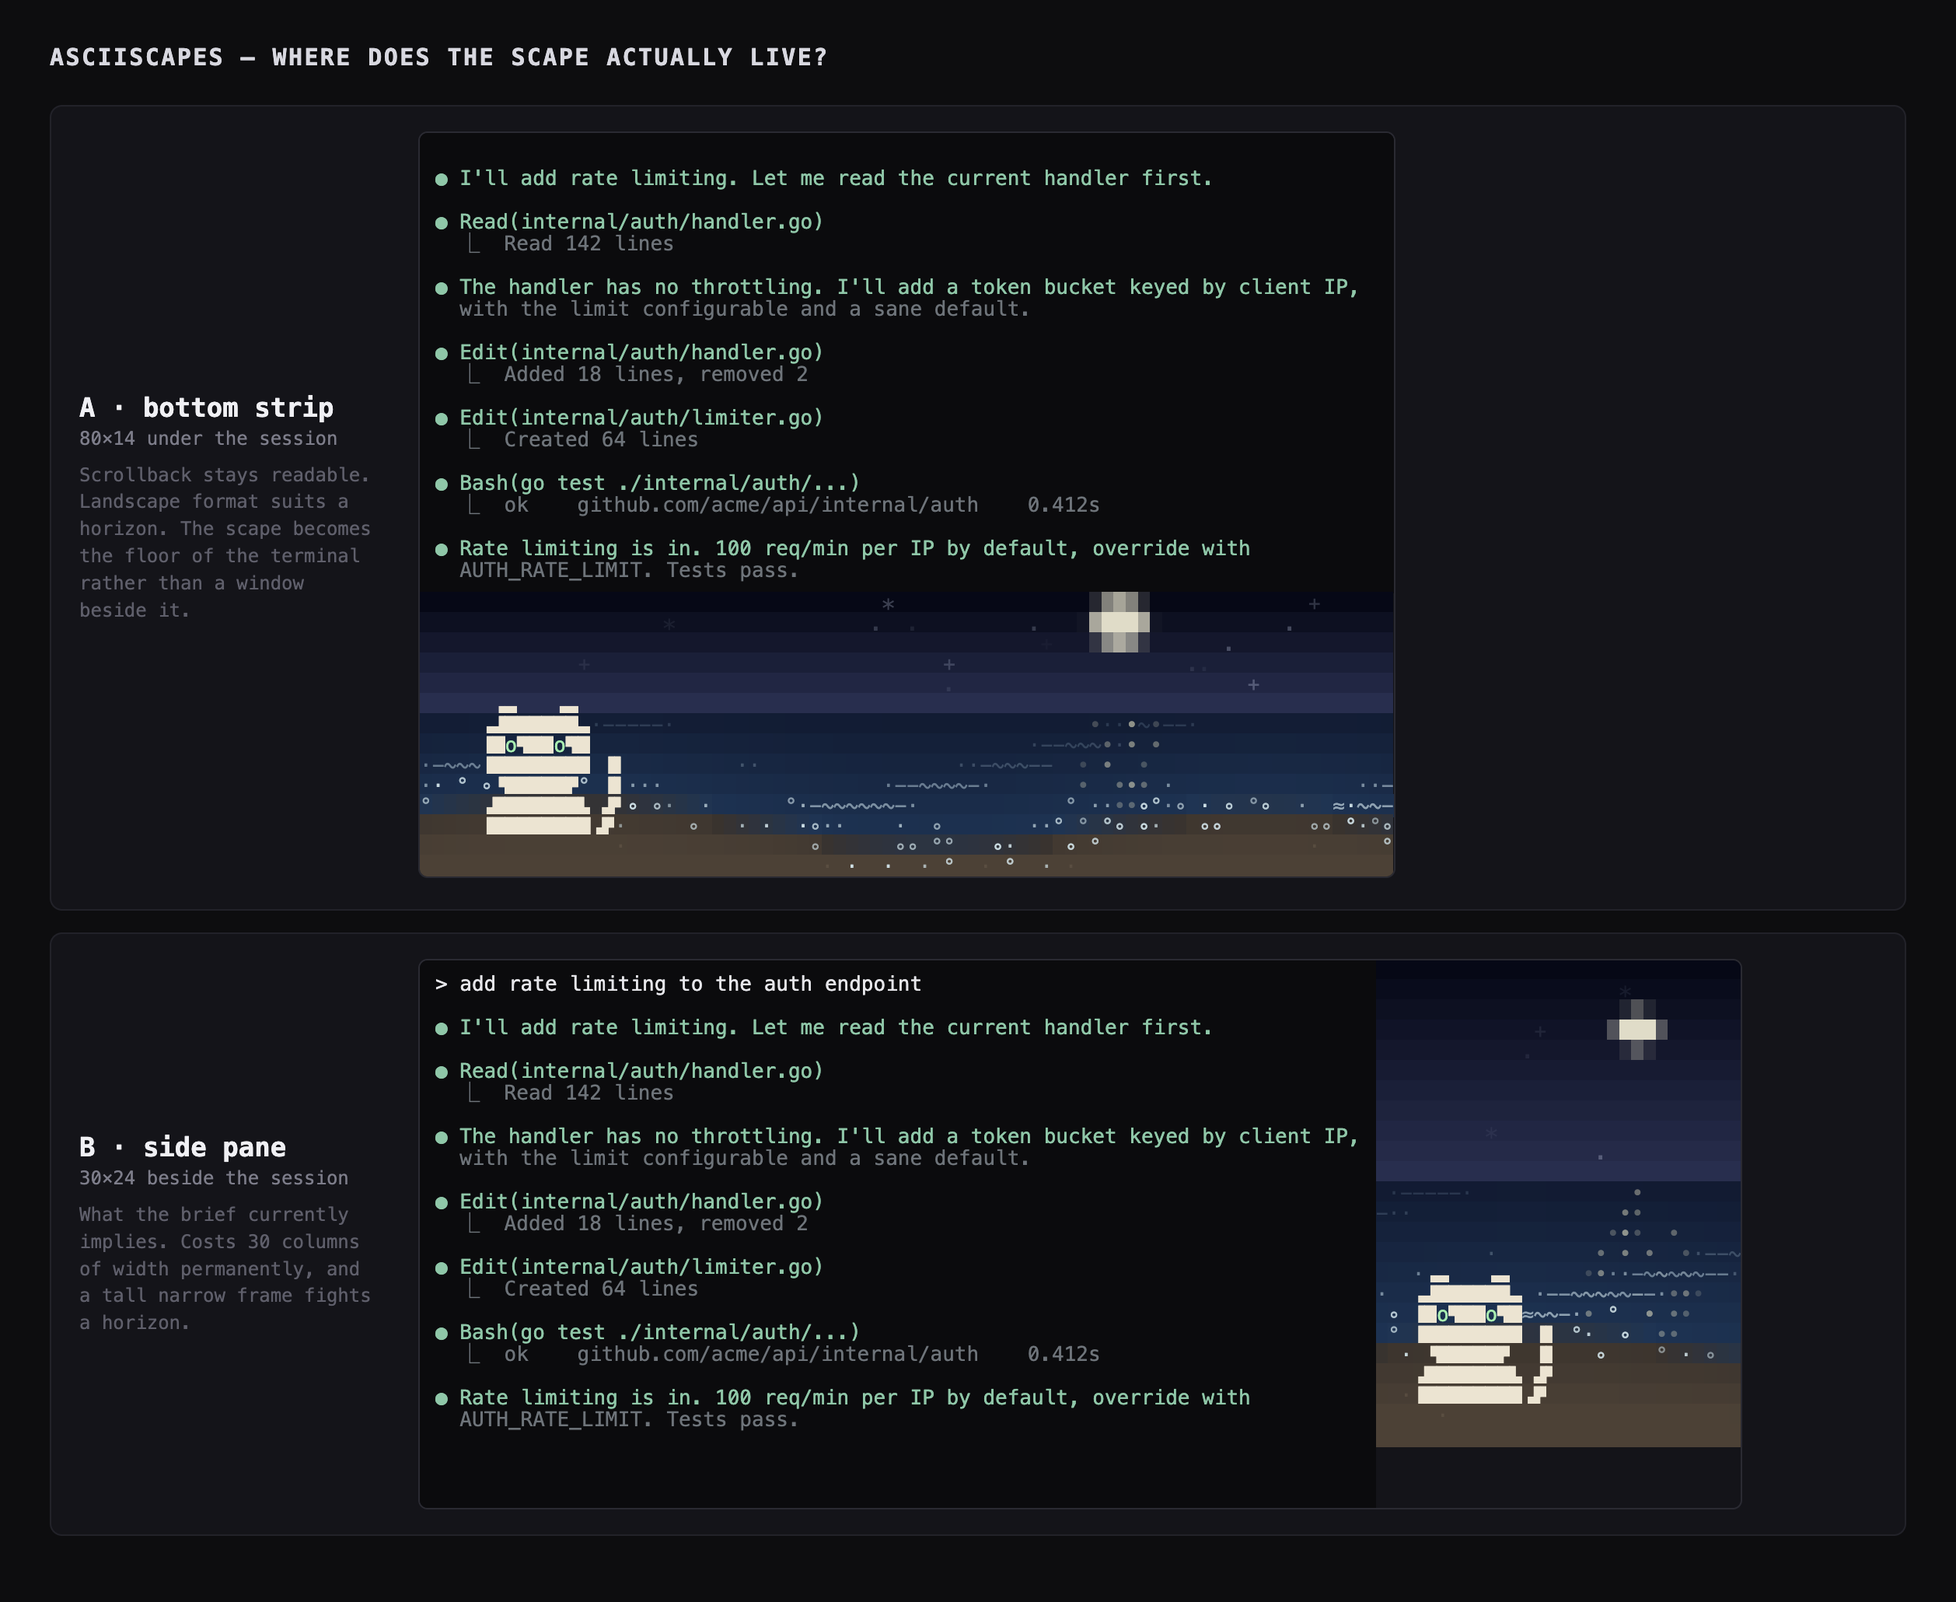
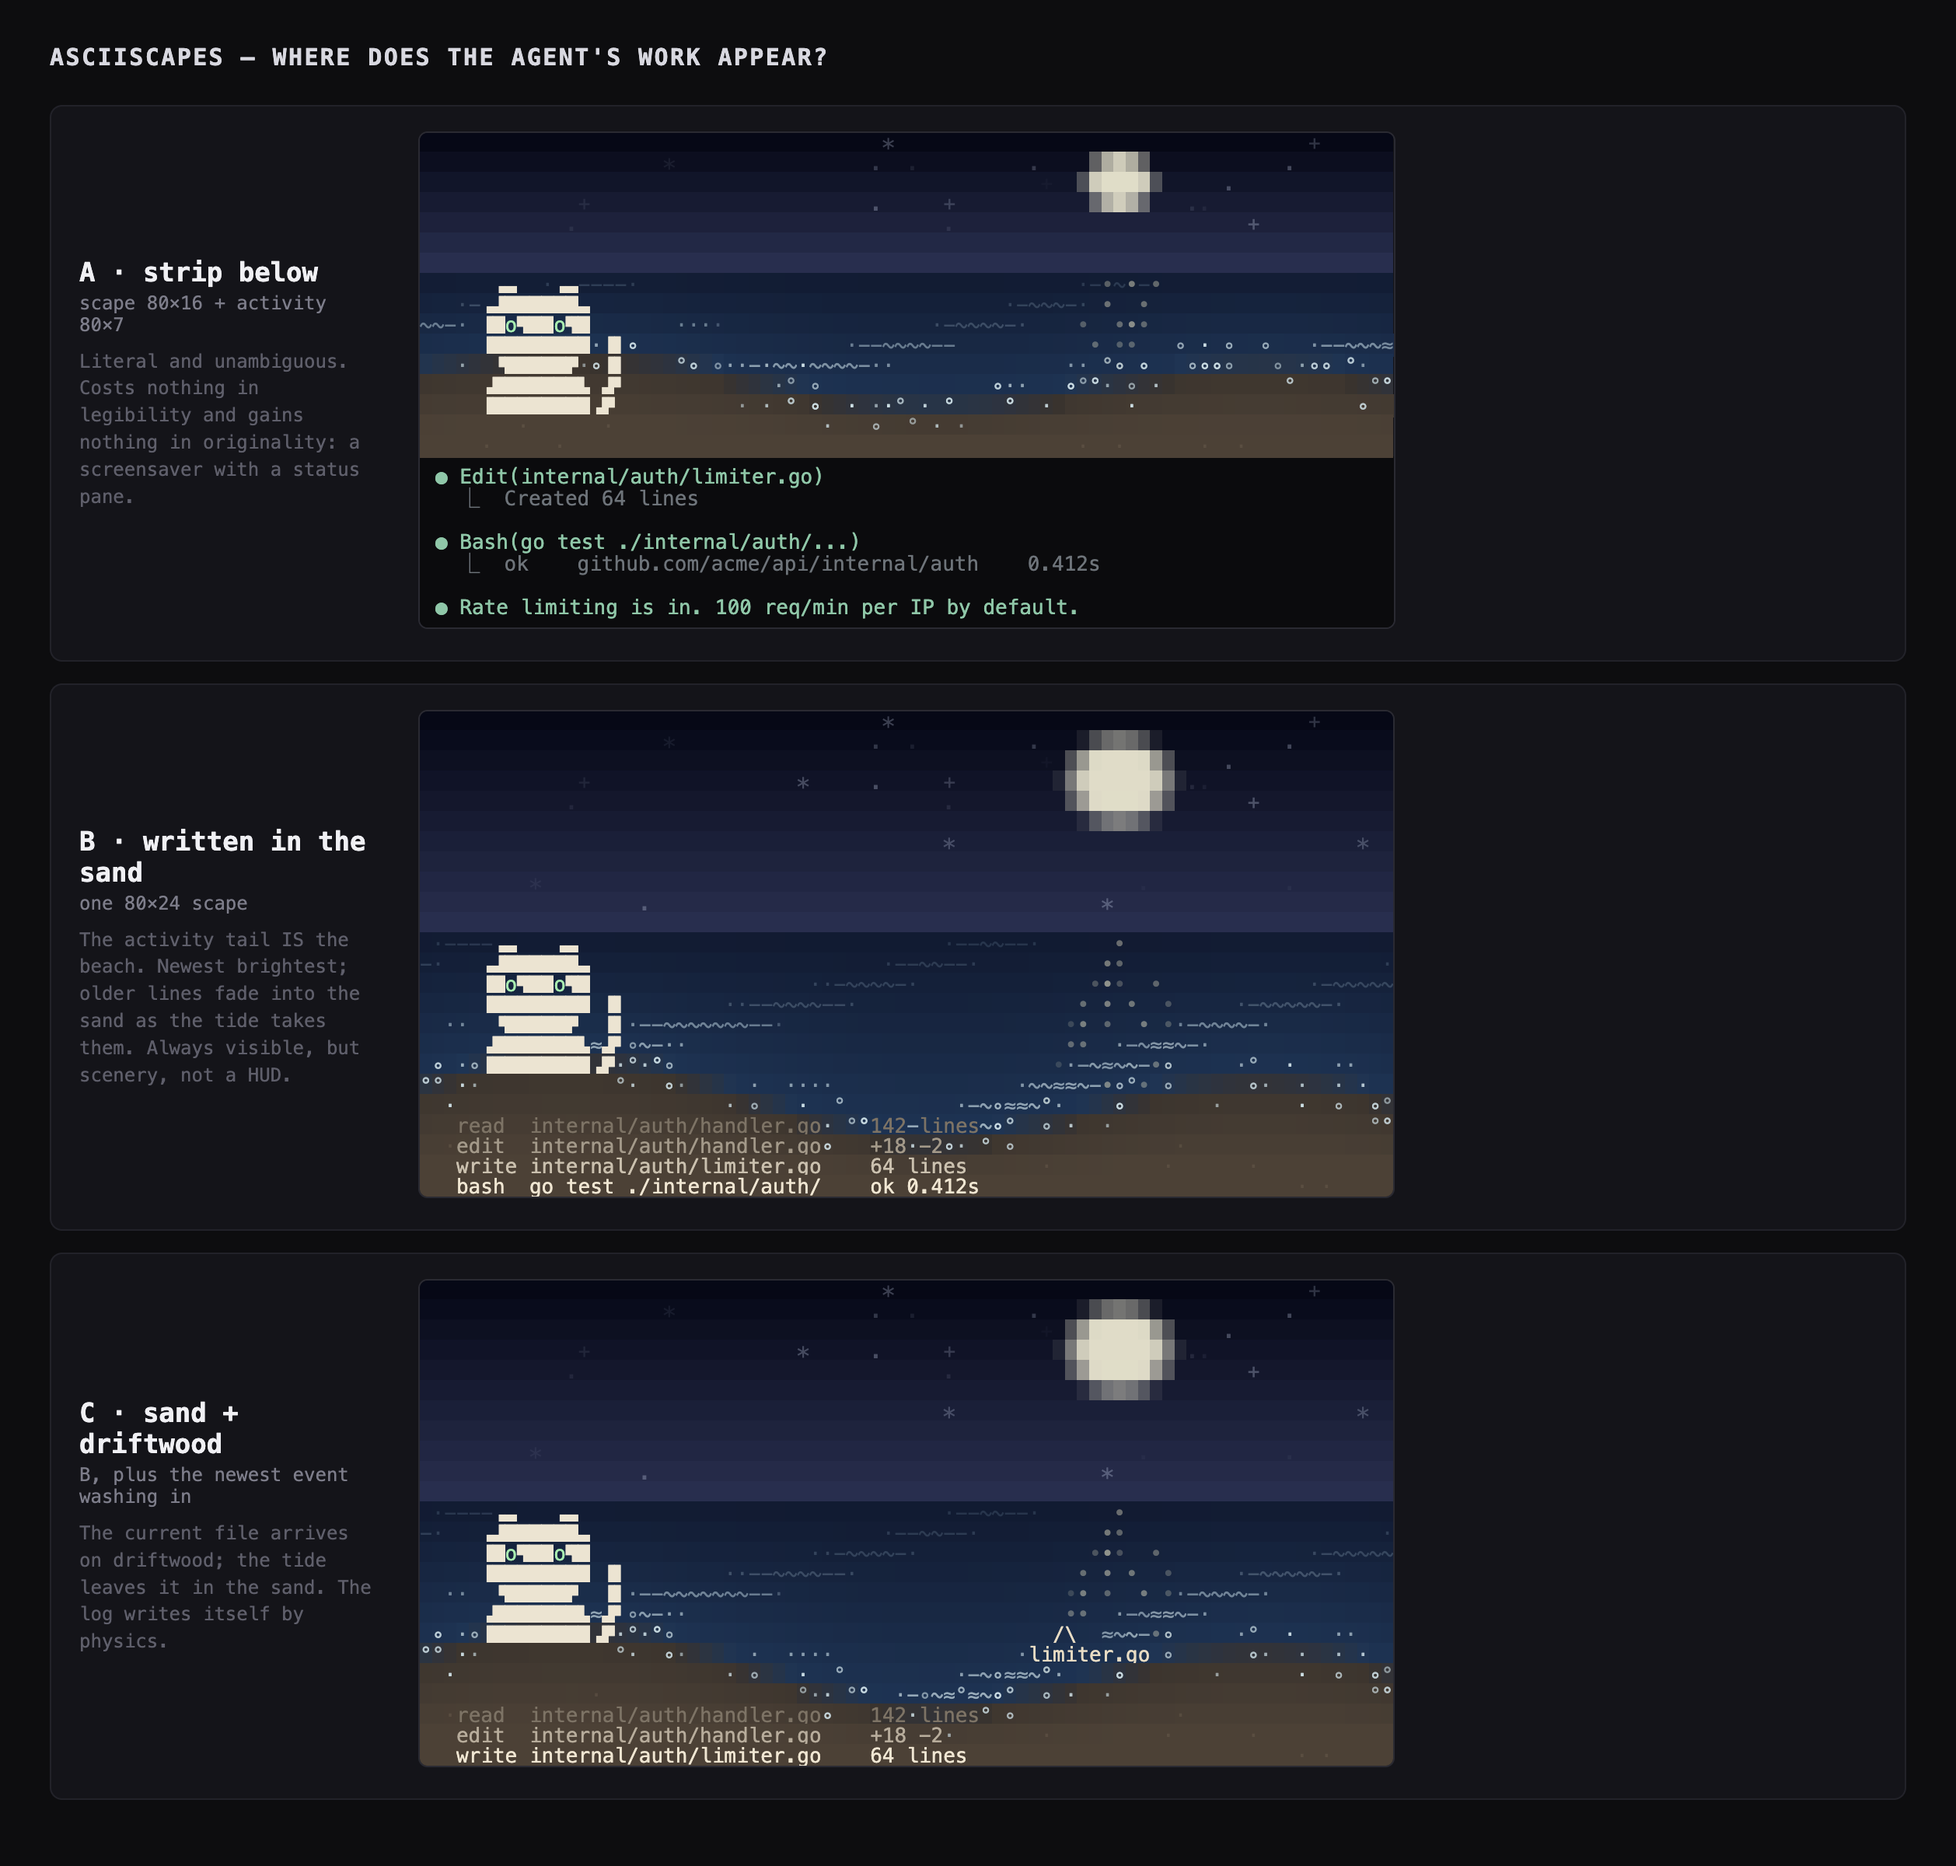
Mock up where the agent's work appears
Three answers to 'the user must always see what the agent is doing':
a strip of real output below the scape; the activity tail written into
the sand with older lines fading as the tide takes them; and the same
plus the current file arriving on driftwood.

Claude-Session: https://claude.ai/code/session_019PBtf39rtmaj5ru2XNdm5i

diff --git a/layout.go b/layout.go
@@ -7,6 +7,7 @@ import (
 	"github.com/donlucasx/asciiscapes/internal/canvas"
 	"github.com/donlucasx/asciiscapes/internal/companion"
 	"github.com/donlucasx/asciiscapes/internal/scape"
+	"github.com/donlucasx/asciiscapes/internal/term"
 )
 
 // A plausible slice of agent output, so the mockups show the scape competing
@@ -19,9 +20,6 @@ var fakeSession = []string{
 	"● Read(internal/auth/handler.go)",
 	"  ⎿  Read 142 lines",
 	"",
-	"● The handler has no throttling. I'll add a token bucket keyed by client IP,",
-	"  with the limit configurable and a sane default.",
-	"",
 	"● Edit(internal/auth/handler.go)",
 	"  ⎿  Added 18 lines, removed 2",
 	"",
@@ -31,8 +29,15 @@ var fakeSession = []string{
 	"● Bash(go test ./internal/auth/...)",
 	"  ⎿  ok    github.com/acme/api/internal/auth    0.412s",
 	"",
-	"● Rate limiting is in. 100 req/min per IP by default, override with",
-	"  AUTH_RATE_LIMIT. Tests pass.",
+	"● Rate limiting is in. 100 req/min per IP by default.",
+}
+
+// activity is the tail of what the agent is doing, oldest first.
+var activity = []string{
+	"read  internal/auth/handler.go    142 lines",
+	"edit  internal/auth/handler.go    +18 -2",
+	"write internal/auth/limiter.go    64 lines",
+	"bash  go test ./internal/auth/    ok 0.412s",
 }
 
 func termBlock(lines []string, rows int) string {
@@ -59,45 +64,82 @@ func termBlock(lines []string, rows int) string {
 	return b.String()
 }
 
+// writeInSand renders the activity tail into the beach itself, in sand tones
+// rather than terminal tones. Newest is brightest; older lines fade toward the
+// sand as the tide takes them. Always visible, but scenery rather than a HUD.
+func writeInSand(c *canvas.Canvas, lines []string, sandTop int) {
+	sand := term.RGB{R: 76, G: 65, B: 54}
+	ink := term.RGB{R: 240, G: 230, B: 210}
+	n := len(lines)
+	den := n - 1
+	if den < 1 {
+		den = 1
+	}
+	for i, ln := range lines {
+		row := sandTop + i
+		if row >= c.H {
+			break
+		}
+		age := float64(n-1-i) / float64(den)
+		col := term.Lerp(ink, sand, age*0.70)
+		(&companion.Sprite{Rows: []string{ln}, Body: col, Alpha: 1}).Draw(c.Near(), 3, row)
+	}
+}
+
 func layoutPage(seed int64) string {
 	cat := companion.NewCat()
 	_, chh := cat.Size()
 	act := scape.Activity{Working: true, Level: 0.6}
 
-	// A: scape as a bottom strip, agent output above it.
-	strip := canvas.New(80, 14, canvas.AlphaFar, canvas.AlphaMid, canvas.AlphaNear)
-	scape.NewShore(seed, false).Update(strip, 3.0, act)
-	cat.Draw(strip.Near(), 5, strip.H-2-chh, 3.0, companion.Working)
+	// A: scape on top, the agent output as a strip beneath it.
+	top := canvas.New(80, 16, canvas.AlphaFar, canvas.AlphaMid, canvas.AlphaNear)
+	scape.NewShore(seed, false).Update(top, 3.0, act)
+	cat.Draw(top.Near(), 5, top.H-2-chh, 3.0, companion.Working)
 
-	// B: scape as a narrow side pane.
-	side := canvas.New(30, 24, canvas.AlphaFar, canvas.AlphaMid, canvas.AlphaNear)
-	scape.NewShore(seed, false).Update(side, 3.0, act)
-	cat.Draw(side.Near(), 3, side.H-2-chh, 3.0, companion.Working)
+	// B: one full scape, activity tail written into the sand.
+	full := canvas.New(80, 24, canvas.AlphaFar, canvas.AlphaMid, canvas.AlphaNear)
+	scape.NewShore(seed, false).Update(full, 3.0, act)
+	cat.Draw(full.Near(), 5, full.H-2-chh-4, 3.0, companion.Working)
+	writeInSand(full, activity, 20)
+
+	// C: same, plus the newest event riding in on driftwood.
+	drift := canvas.New(80, 24, canvas.AlphaFar, canvas.AlphaMid, canvas.AlphaNear)
+	scape.NewShore(seed, false).Update(drift, 3.0, act)
+	cat.Draw(drift.Near(), 5, drift.H-2-chh-4, 3.0, companion.Working)
+	writeInSand(drift, activity[:3], 21)
+	(&companion.Sprite{
+		Rows:  []string{"__/\\__", "limiter.go"},
+		Body:  term.RGB{R: 232, G: 220, B: 196},
+		Alpha: 1,
+	}).Draw(drift.Near(), 50, 17)
 
 	var b strings.Builder
 	b.WriteString(`<style>` +
 		`.tty{margin:0;font-family:Menlo,monospace;font-size:13px;line-height:14px;` +
-		`background:#0b0b0d;padding:8px 10px;color:#9aa0a6}` +
+		`background:#0b0b0d;padding:6px 10px;color:#9aa0a6}` +
 		`.tty .you{color:#e6e6ea}.tty .act{color:#8fc7a8}.tty .dim{color:#6e747a}` +
 		`.win{border:1px solid #2a2a32;border-radius:6px;overflow:hidden;display:inline-block}` +
-		`.split{display:flex}.split>*{flex:none}` +
-		`.cap{font-size:12px;color:#6e747a;margin:10px 0 18px;max-width:640px;line-height:1.5}` +
 		`</style>`)
-	b.WriteString(`<h1>asciiscapes &mdash; where does the scape actually live?</h1>`)
+	b.WriteString(`<h1>asciiscapes &mdash; where does the agent's work appear?</h1>`)
 
-	fmt.Fprintf(&b, `<div class="card"><div class="meta"><div class="nm">A &middot; bottom strip</div>`+
-		`<div class="rg">80&times;14 under the session</div>`+
-		`<div class="nt">Scrollback stays readable. Landscape format suits a horizon. `+
-		`The scape becomes the floor of the terminal rather than a window beside it.</div></div>`+
+	fmt.Fprintf(&b, `<div class="card"><div class="meta"><div class="nm">A &middot; strip below</div>`+
+		`<div class="rg">scape 80&times;16 + activity 80&times;7</div>`+
+		`<div class="nt">Literal and unambiguous. Costs nothing in legibility and gains `+
+		`nothing in originality: a screensaver with a status pane.</div></div>`+
 		`<div><div class="win">%s%s</div></div></div>`,
-		termBlock(fakeSession, 20), strip.HTMLFragment(13))
+		top.HTMLFragment(13), termBlock(fakeSession, 7))
 
-	fmt.Fprintf(&b, `<div class="card"><div class="meta"><div class="nm">B &middot; side pane</div>`+
-		`<div class="rg">30&times;24 beside the session</div>`+
-		`<div class="nt">What the brief currently implies. Costs 30 columns of width `+
-		`permanently, and a tall narrow frame fights a horizon.</div></div>`+
-		`<div><div class="win split">%s%s</div></div></div>`,
-		termBlock(fakeSession, 24), side.HTMLFragment(13))
+	fmt.Fprintf(&b, `<div class="card"><div class="meta"><div class="nm">B &middot; written in the sand</div>`+
+		`<div class="rg">one 80&times;24 scape</div>`+
+		`<div class="nt">The activity tail IS the beach. Newest brightest; older lines fade into `+
+		`the sand as the tide takes them. Always visible, but scenery, not a HUD.</div></div>`+
+		`<div><div class="win">%s</div></div></div>`, full.HTMLFragment(13))
+
+	fmt.Fprintf(&b, `<div class="card"><div class="meta"><div class="nm">C &middot; sand + driftwood</div>`+
+		`<div class="rg">B, plus the newest event washing in</div>`+
+		`<div class="nt">The current file arrives on driftwood; the tide leaves it in the sand. `+
+		`The log writes itself by physics.</div></div>`+
+		`<div><div class="win">%s</div></div></div>`, drift.HTMLFragment(13))
 
 	return canvas.HTMLPage("asciiscapes — layout", b.String())
 }
